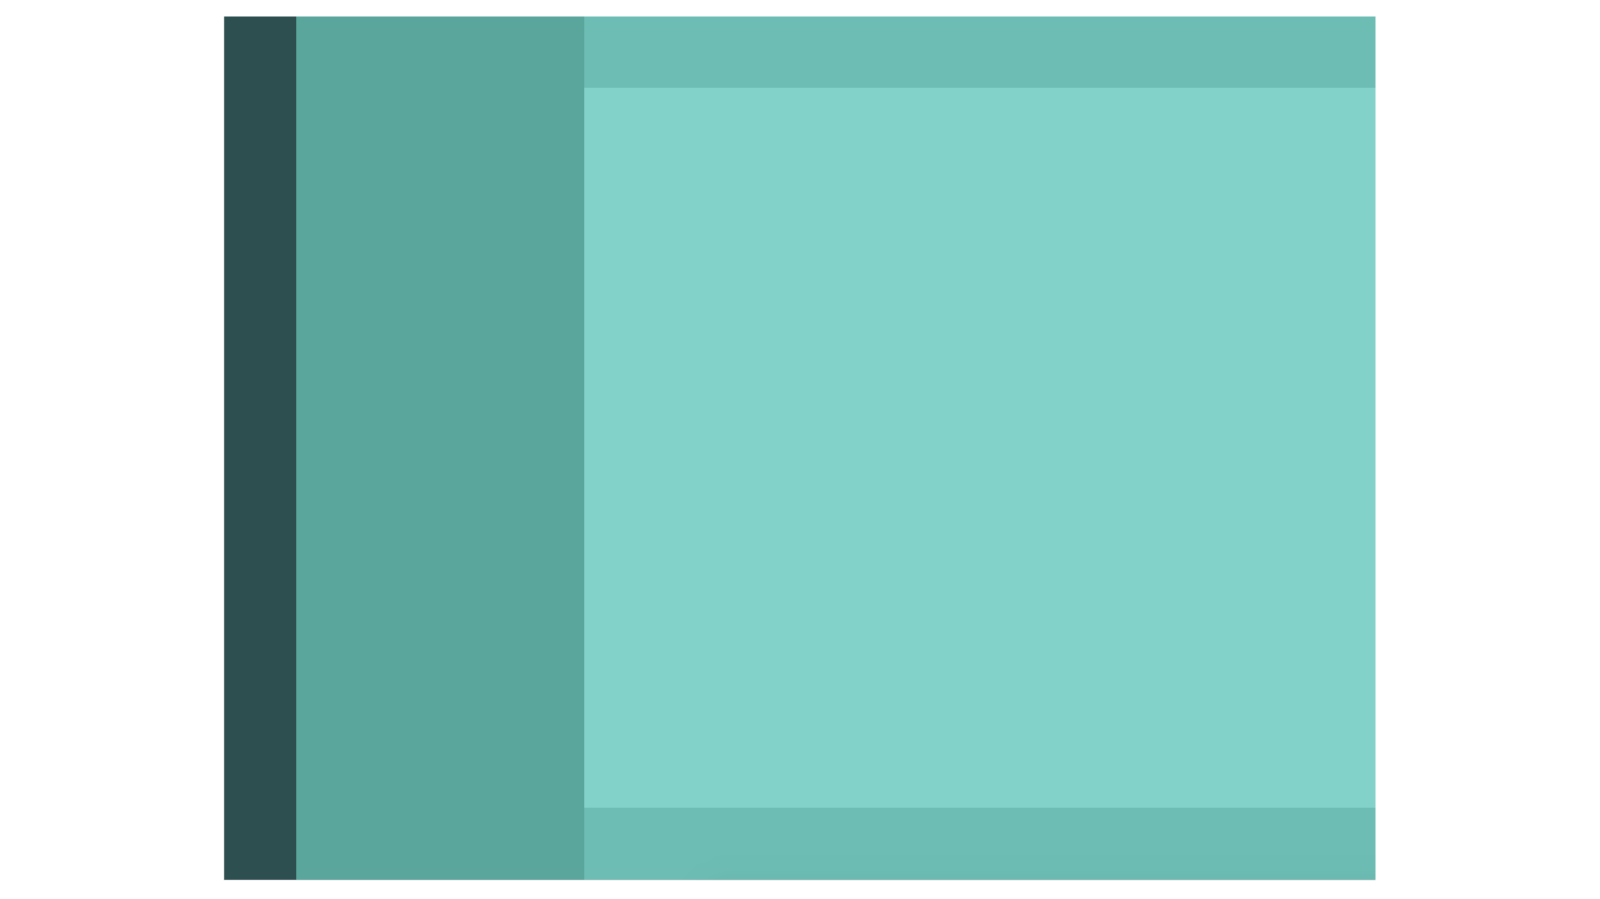
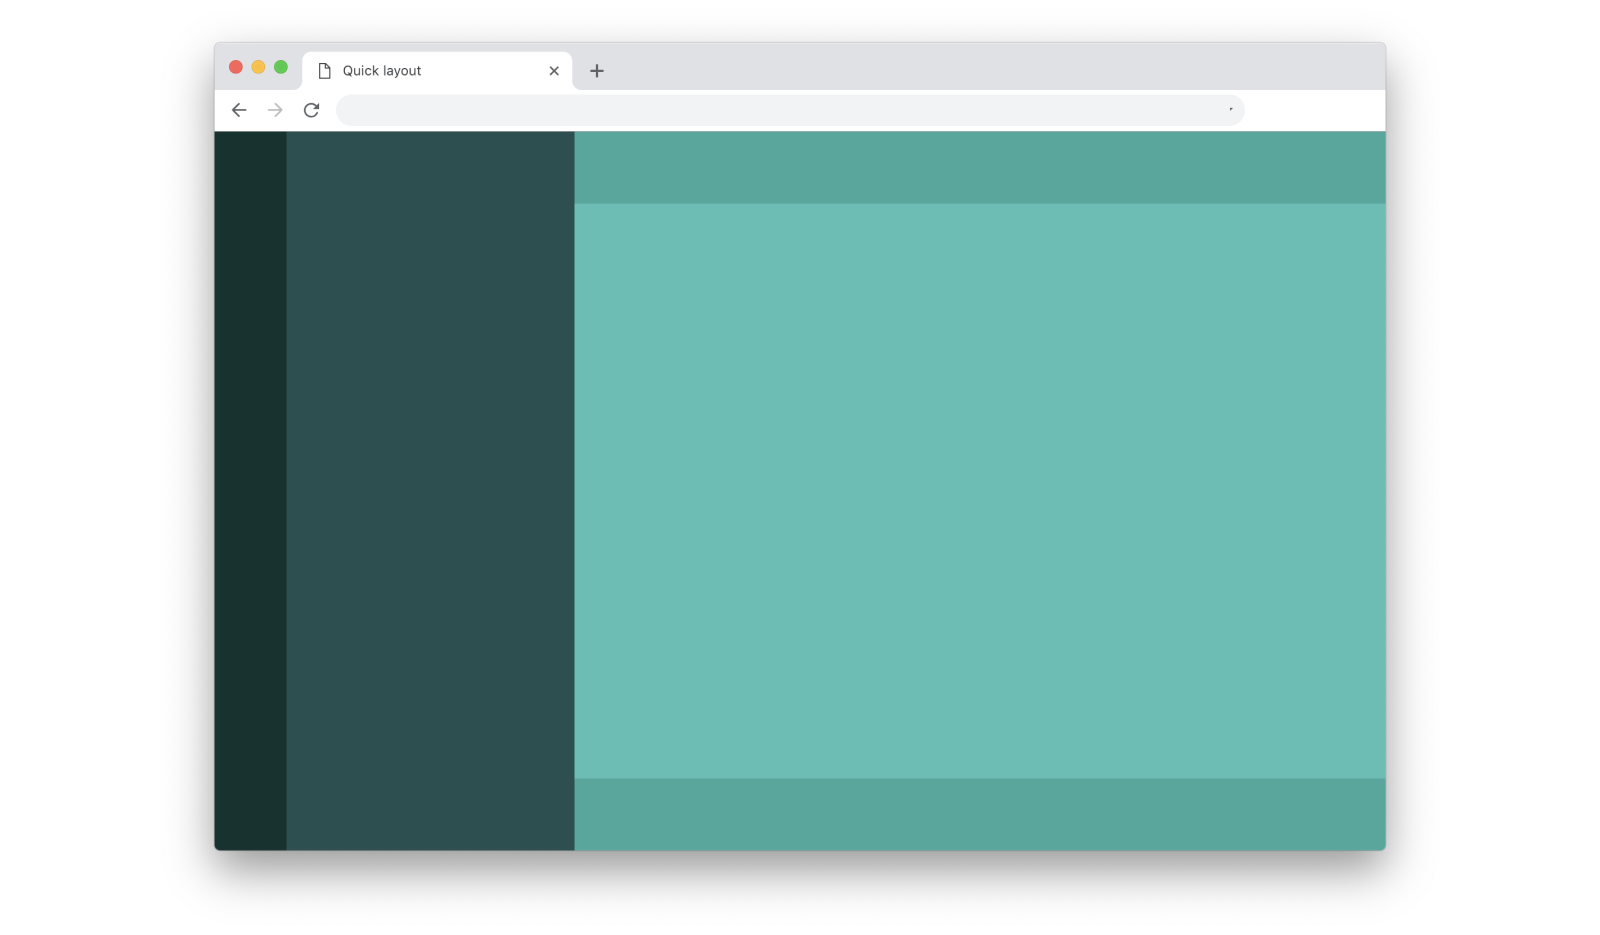
Tailwind

diff --git a/docs/Courses/LayoutBasics/Tailwind/prototypes/demo.html b/docs/Courses/LayoutBasics/Tailwind/prototypes/demo.html
@@ -4,8 +4,7 @@
   <meta charset="UTF-8">
   <meta name="viewport" content="width=device-width, initial-scale=1.0">
   <meta http-equiv="X-UA-Compatible" content="ie=edge">
-  <title>Document</title>
-  <script src="https://cdn.jsdelivr.net/npm/vue/dist/vue.js"></script>
+  <title>Quick layout</title>
   <link href="https://cdn.jsdelivr.net/npm/tailwindcss/dist/tailwind.min.css" rel="stylesheet">
 </head>
 <body>
@@ -21,15 +20,4 @@
     </div>
   </div>
 </body>
-<script>
-  var app = new Vue({
-    el: '#app',
-    data: {
-      // variables go here
-    },
-    methods: {
-      // functions go here
-    }
-  })
-</script>
 </html>

diff --git a/docs/Courses/LayoutBasics/Tailwind/usage.md b/docs/Courses/LayoutBasics/Tailwind/usage.md
@@ -1,1 +1,49 @@
 # Usage
+
+## Install
+
+To be able to use Tailwind in your prototypes you just need to include a link to Tailwind's stylesheet in your `<head>` container:
+
+```html
+<head>
+  <!-- prototype meta  -->
+  <link href="https://cdn.jsdelivr.net/npm/tailwindcss/dist/tailwind.min.css" rel="stylesheet">
+</head>
+```
+
+With this line in place you are able to apply Tailwind classes to your prototype:
+
+```html
+<button class="px-6 py-3 rounded text-white bg-teal hover:bg-teal-dark">
+  Confirm
+</button>
+```
+
+![screenshot of Tailwind's search results for 'color'](./media/tailwind-ui-1.png)
+
+## Use
+
+It takes time to learn Tailwind names of CSS properties. In the course's following articles you will become familiar with the way Tailwind works with CSS you've learnt so far. However, the most complete and up-to-date reference is [Tailwind's official documentation](https://tailwindcss.com/docs/what-is-tailwind). Its navigation on the left has a very nice structure, but you will probably find yourself using search most of the time, because it's way faster to navigate with it:
+
+![screenshot of Tailwind's search results for 'color'](./media/tailwind-screenshot-1.png)
+
+## Restraints
+
+Tailwind is so much more than just a library of classes <!--, but that's what our way of using it is limited too-->. You may find very exiting advanced features in Tailwind's documentation such as [configuration](https://tailwindcss.com/docs/configuration) that allows you to customize default classes and create your own, and the ability to add [new utilities](https://tailwindcss.com/docs/adding-new-utilities).
+
+Unfortunally, those are not avalailable when using Tailwind in flat html file. However you can still overwrite the Tailwind classes and create your own by writing them in `<style>` container inside the `<head>` of your prototype:
+
+```html
+<head>
+  <!-- prototype meta  -->
+  <link href="https://cdn.jsdelivr.net/npm/tailwindcss/dist/tailwind.min.css" rel="stylesheet">
+  <style>
+    .px-4 {
+      padding-left: 1.1rem;
+      padding-right: 1.1rem;
+    }
+  </style>
+</head>
+```
+
+You have to make sure though, that your `<style>` container is below Tailwind's `<link>`, so it has higher priority.

diff --git a/docs/Courses/LayoutBasics/Tailwind/whats.md b/docs/Courses/LayoutBasics/Tailwind/whats.md
@@ -3,10 +3,32 @@
 As [official documentation](https://tailwindcss.com/docs/what-is-tailwind) puts it: Tailwind is a utility-first CSS framework for rapidly building custom user interfaces. Let's clarify some particularly important parts of this definition.
 
 #### CSS framework
-Tailwind is a collection of classes someone created for you. This means you need less time and less code compared to creating your own classes and writing plain CSS.
+Tailwind is a stylesheet with a bunch of classes someone created for you. This means you need less time and less code compared to creating your own classes and writing plain CSS.
 
 #### Utility-first
-Tailwind doesn't have components classes like `button` or `sidebar`. As a result you are not bound to look and behaviour of any UI kit, so you design freely.
+Tailwind doesn't have abstract component classes like `button`, `sidebar` or `column`. As a result you are not bound to look and behaviour of any UI kit, so you design freely.
+
+### In a nutshell
+
+Tailwind's classes usually have one, rarely two or more CSS properties wrapped in a short, yet readable name. As a result, the process is very similar to writing styles on the go, but instead you write classes:
+
+```html
+<div class="flex flex-col items-center">
+```
+
+With Tailwind in place, the container above becomes flex container, receives vertical direction and center-aligns its children horizontally. Here're Tailwind classes used by this layout:
+
+```css
+.flex {
+  display: flex;
+}
+.flex-col {
+  flex-direction: column;
+}
+.items-center {
+  align-items: center;
+}
+```
 
 ## Demo
 
